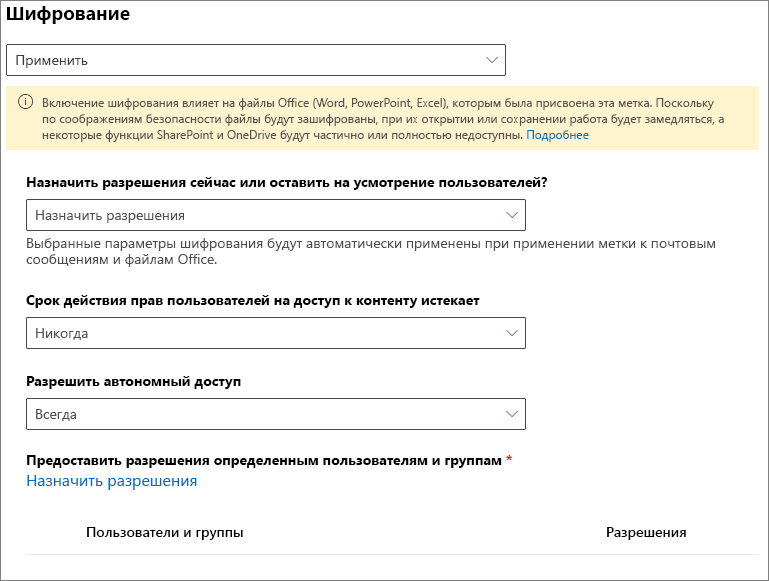
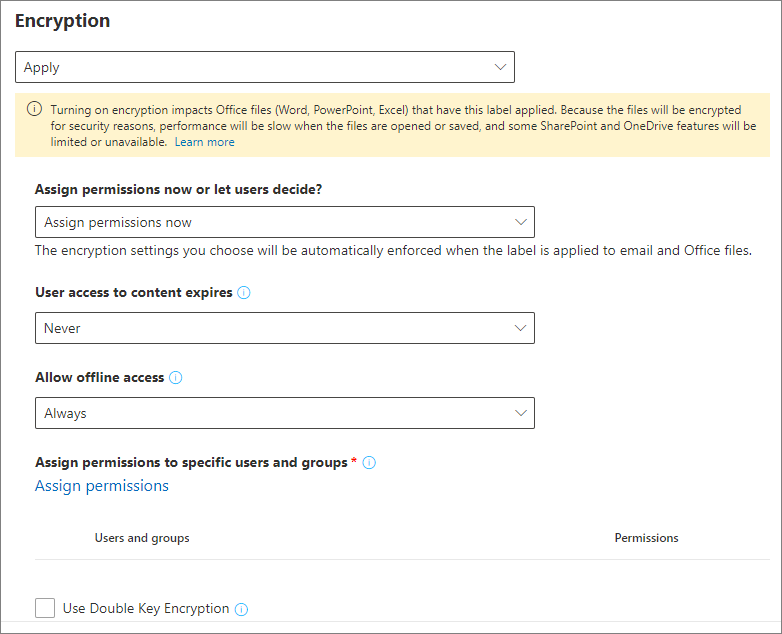
commit translated contents

diff --git a/microsoft-365/compliance/double-key-encryption.md b/microsoft-365/compliance/double-key-encryption.md
@@ -12,44 +12,40 @@ ms.reviewer: esaggese
 localization_priority: Normal
 ms.collection:
 - M365-security-compliance
-ms.openlocfilehash: 47fc4bc47831970ef7a7f2087cf6c86b6fefb8c2
-ms.sourcegitcommit: fe20f5ed07f38786c63df0f73659ca472e69e478
+ms.openlocfilehash: d9ed155576d69889e53e4e4d1ce03e4233fd08ff
+ms.sourcegitcommit: 4789b261eb029d7c965421a1260acc110e6385db
 ms.translationtype: MT
 ms.contentlocale: ru-RU
-ms.lasthandoff: 07/21/2020
-ms.locfileid: "45201777"
+ms.lasthandoff: 07/23/2020
+ms.locfileid: "45387446"
 ---
 # <a name="double-key-encryption-dke"></a>Шифрование с двойным ключом (ДКЕ)
 
-> *Применимо к: [соответствие требованиям Microsoft 365](https://www.microsoft.com/microsoft-365/business/compliance-management), [Azure Information Protection](https://azure.microsoft.com/pricing/details/information-protection)*
+> *Применимо к: шифрование с двойным ключом для Microsoft 365 общедоступная Предварительная версия, [соответствие требованиям microsoft 365](https://www.microsoft.com/microsoft-365/business/compliance-management), [Azure Information Protection](https://azure.microsoft.com/pricing/details/information-protection)*
 >
 > *Инструкции для: [клиент единой метки Azure Information Protection для Windows](https://docs.microsoft.com/azure/information-protection/faqs.md#whats-the-difference-between-the-azure-information-protection-classic-and-unified-labeling-clients)*
 >
 > *Описание службы: [соответствие требованиям Microsoft 365](https://docs.microsoft.com/office365/servicedescriptions/microsoft-365-service-descriptions/microsoft-365-tenantlevel-services-licensing-guidance/microsoft-365-security-compliance-licensing-guidance)*
 
-Эта общедоступная Предварительная версия шифрования с двойным ключом (ДКЕ) позволяет использовать клиент единой метки Azure Information Protection для защиты строго конфиденциального содержимого, сохраняя полный контроль над ключом.
-
-Для доступа к защищенному содержимому с помощью двойного шифрования необходимо использовать два ключа (совместно). Вы храните один ключ в Microsoft Azure, и вы держите другой ключ.
+С помощью двойного шифрования (ДКЕ) для доступа к защищенному содержимому используются два ключа. Вы храните один ключ в Microsoft Azure, и вы держите другой ключ. Клиент единой метки Azure Information Protection защищает строго конфиденциальный контент, пока вы сохраняете полный контроль над одним из ваших ключей.
 
 Двойное шифрование поддерживает развертывания как в облаке, так и в локальных развертываниях. Эти развертывания помогают убедиться, что зашифрованные данные остаются непрозрачными везде, где хранятся защищенные данные.
 
 Дополнительные сведения о корневых ключах облачных клиентов по умолчанию можно найти в статье [планирование и реализация ключа клиента Azure Information Protection](https://docs.microsoft.com/azure/information-protection/plan-implement-tenant-key).
 
-Двойное Ключическое шифрование аналогично полю безопасности, для которого требуется получить доступ к банковскому ключу и ключу клиента. Для расшифровки защищенного контента необходимо использовать управляемый ключ Майкрософт и ключ, удерживаемый клиентом.
-
 В следующем видеоролике показано, как работает двойное шифрование для защиты контента.
+
+> [!VIDEO https://msit.microsoftstream.com/embed/video/f466a1ff-0400-a936-221c-f1eab45dc756]
 
 Если у вашей организации есть какие – либо из следующих требований, вы можете использовать ДКЕ для защиты своего содержимого:
 
 - Вы хотите убедиться, что *только вы* можете расшифровывать защищенный контент при всех обстоятельствах.
 - Вы не хотите, чтобы у корпорации Майкрософт был доступ к защищенным данным самостоятельно.
-- Соблюдение нормативных требований для хранения ключей в пределах географической границы. Все ключи, удерживаемые клиентом для шифрования и расшифровки данных, поддерживаются в центре обработки данных.
-
-> [!VIDEO https://msit.microsoftstream.com/embed/video/f466a1ff-0400-a936-221c-f1eab45dc756]
+- Соблюдение нормативных требований для хранения ключей в пределах географической границы. Все ключи, которые вы удерживаете для шифрования и расшифровки данных, поддерживаются в центре обработки данных.
 
 ## <a name="system-and-licensing-requirements-for-dke"></a>Требования к системе и лицензированию для ДКЕ
 
-Этот общедоступный ознакомительный выпуск с двойным ключом шифрования для Microsoft 365 доступен в составе Microsoft 365 а и Office 365. Если у вас нет лицензии на Microsoft 365, вы можете зарегистрироваться для получения [пробной версии](https://aka.ms/M365E5ComplianceTrial). Для получения дополнительных сведений об этих лицензиях обратитесь к разделу [руководство по лицензированию Microsoft 365 для обеспечения безопасности & соответствия требованиям](https://docs.microsoft.com/office365/servicedescriptions/microsoft-365-service-descriptions/microsoft-365-tenantlevel-services-licensing-guidance/microsoft-365-security-compliance-licensing-guidance).
+Двойное ключевое шифрование для Microsoft 365, часть Microsoft 365 об/в и Office 365 Если у вас нет лицензии на Microsoft 365, вы можете зарегистрироваться для получения [пробной версии](https://aka.ms/M365E5ComplianceTrial). Для получения дополнительных сведений об этих лицензиях обратитесь к разделу [руководство по лицензированию Microsoft 365 для обеспечения безопасности & соответствия требованиям](https://docs.microsoft.com/office365/servicedescriptions/microsoft-365-service-descriptions/microsoft-365-tenantlevel-services-licensing-guidance/microsoft-365-security-compliance-licensing-guidance).
 
 **Предварительная сборка Office** Для использования общедоступной предварительной версии вы должны быть участником программы предварительной оценки Office. Чтобы присоединиться к программе предварительной оценки Office, перейдите на страницу [https://insider.office.com](https://insider.office.com) . Когда вы являетесь участником, подготовьте среду к развертыванию сборок для участников программы предварительной оценки Office, выбрав нужный метод развертывания для своей организации. Инструкции приведены в разделе [Начало работы по развертыванию сборок для участников программы предварительной оценки Office](https://insider.office.com/business/deploy).
 
@@ -63,15 +59,19 @@ ms.locfileid: "45201777"
 
 ## <a name="about-this-public-preview-article"></a>Об этой общедоступной статье предварительной версии
 
-Существует несколько способов выполнить некоторые действия по развертыванию двойного шифрования ключа. В этой статье приводятся подробные инструкции, позволяющие менее опытным администраторам успешно развертывать службу. Если у вас возникли общие технологии, например Git, совместно используемые методами развертывания, описанными в этой статье, вы можете использовать собственные методы.
+Существует несколько способов выполнить некоторые действия по развертыванию двойного шифрования ключа. В этой статье приводятся подробные инструкции, позволяющие менее опытным администраторам успешно развертывать службу. Если вы умеете, можете использовать собственные методы.
 
-Для общедоступной предварительной версии мы включили пошаговые инструкции по развертыванию службы шифрования двойных ключей в Azure. Этот сценарий не является чем-то вероятным действием в рабочей среде. Для общедоступной предварительной версии с помощью Azure можно быстро приступить к работе с двойным ключом шифрования сразу.
+В этой статье приведены пошаговые инструкции по развертыванию службы шифрования двойных ключей в Azure. Этот сценарий не является чем-то вероятным действием в рабочей среде. Для общедоступной предварительной версии с помощью Azure можно быстро развернуть ДКЕ. Развертывание в Azure позволяет начать использовать двойное шифрование ключа сразу.
 
-Службу можно развернуть везде, где угодно, независимо от того, находится ли она локально в вашей сети или с другим поставщиком. Необходимо опубликовать хранилище ключей с помощью методов, соответствующих этому расположению.
+Службу можно развернуть локально в сети или с помощью другого поставщика. Необходимо опубликовать хранилище ключей с помощью методов, подходящих для этого расположения.
 
 ## <a name="deploy-double-key-encryption"></a>Развертывание двойного шифрования ключей
 
-Ниже приведены общие действия по настройке шифрования с двойным ключом для Организации. В примере, приведенном в этой статье, используется Azure в качестве места назначения развертывания для службы ДКЕ. При развертывании в другом расположении необходимо указать собственные значения.
+В этой статье и видео о развертывании используется Azure в качестве места назначения развертывания для службы ДКЕ. При развертывании в другом расположении необходимо указать собственные значения.
+
+Просмотрите [видеоролик о развертывании двойных ключей](https://msit.microsoftstream.com/video/cfdda3ff-0400-a521-1579-f1eacc37fc7e) , чтобы просмотреть пошаговые инструкции по концепциям, представленным в этой статье. Для завершения видеоролика потребуется около 18 минут.
+
+Ниже приведены общие действия по настройке шифрования с двойным ключом для Организации.
 
 1. [Установка необходимого программного обеспечения](#install-software-prerequisites)
 1. [Клонировать репозиторий GitHub шифрования с двойным ключом](#clone-the-dke-github-repository)
@@ -146,13 +146,13 @@ ms.locfileid: "45201777"
 
 5. В появившемся диалоговом окне **Выбор папки** найдите и выберите расположение для хранения репозитория. В командной строки нажмите кнопку **Открыть**.
 
-    Репозиторий открывается в Visual Studio Code и отображается в левом нижнем углу текущей ветви Git. Текущая ветвь должна быть **основной**.
+    Репозиторий открывается в Visual Studio Code и отображается в левом нижнем углу текущей ветви Git. Ветвь должна быть **основной**.
 
     Пример:
 
     :::image type="content" source="../media/dke-vscode-master.png" alt-text="Ветвь образца кода Visual Studio":::
 
-6. Выберите образец Word **,** а затем в списке ветвей выберите пункт **public_preview** . 
+6. Выберите образец Word **,** а затем в списке ветвей выберите пункт **public_preview** .
 
    > [!IMPORTANT]
    > Выбор ветви public_preview позволяет убедиться, что у вас есть правильные файлы для построения проекта. Если не выбрать подходящую ветвь, произойдет ошибка развертывания.
@@ -178,41 +178,79 @@ ms.locfileid: "45201777"
 
 - **Авторизация ролей**. Позволяет Организации авторизовать доступ к ключам на основе групп Active Directory и требовать, чтобы веб-служба могла запрашивать LDAP.
 
-Чтобы настроить параметры доступа к ключам для ДКЕ, выполните указанные ниже действия.
+**Настройка параметров доступа к ключам для ДКЕ с помощью авторизации электронной почты**
 
-1. В **appsettings.js** "файл" определите только один из следующих параметров:
+1. Откройте **appsettings.js** файла и выберите `AuthorizedEmailAddress` параметр.
 
-   - Для проверки подлинности электронной почты выберите параметр **аусоризедемаиладдрессес** . Добавьте адрес электронной почты, который нужно авторизовать. Разделяйте адреса электронной почты двойными кавычками и запятыми. Пример: **"' аусоризедемаиладдрессес '": ["email1@company.com", "email2@company.com", email3@company.com]**
+2. Добавьте адрес электронной почты или адреса, которые вы хотите авторизовать. Разделяйте адреса электронной почты двойными кавычками и запятыми. Пример:
 
-   :::image type="content" source="../media/dke-email-accesssetting.png" alt-text="appsettings.jsв файле с методом авторизации электронной почты":::
+   ```json
+   "AuthorizedEmailAddress": ["email1@company.com", "email2@company.com ", "email3@company.com"]
+   ```
 
-   - В разделе Авторизация роли выберите параметр **аусоризедролес** . Определите имена групп ActiveDirectory, которые вы хотите авторизовать. Пример: **"аусоризедролес": ["Group1", "group2", "group3"]**
+3. Нахождение `LDAPPath` параметра и удаление текста `If role authorization is used then this is the LDAP path` между двойными кавычками. Оставьте двойные кавычки на месте. По завершении этот параметр должен выглядеть так, как показано ниже.
+
+   ```json
+   "LDAPPath": ""
+   ```
+
+4. Нахождение `AuthorizedRoles` параметра и удаление всей строки.
+
+На этом рисунке показано, как правильно отформатировать **appsettings.jsв** файле для авторизации электронной почты.
+
+   :::image type="content" source="../media/dke-email-accesssetting.png" alt-text="appsettings.jsдля файла с методом авторизации электронной почты":::
+
+**Настройка параметров доступа к ключам для ДКЕ с помощью авторизации ролей**
+
+1. Откройте **appsettings.js** файла и выберите `AuthorizedRoles` параметр.
+
+2. Добавьте имена групп Active Directory, которые вы хотите авторизовать. Разделяйте имена групп двойными кавычками и запятыми. Пример:
+
+   ```json
+   "AuthorizedRoles": ["group1", "group2", "group3"]
+   ```
+
+3. Нахождение `LDAPPath` параметра и добавление домена Active Directory. Пример:
+
+   ```json
+   "LDAPPath": "contoso.com"
+   ```
+
+4. Нахождение `AuthorizedEmailAddress` параметра и удаление всей строки.
+
+На этом рисунке показано, как правильно отформатировать **appsettings.jsв** файле для авторизации роли.
 
    :::image type="content" source="../media/dke-role-accesssetting.png" alt-text="appsettings.jsдля файла с методом авторизации роли":::
 
-2. Удалите параметр, не относящийся к выбранному способу проверки подлинности.
-
 #### <a name="tenant-and-key-settings"></a>Параметры клиента и ключа
 
-Параметры клиента и ключа ДКЕ размещаются в **appsettings.js** файла и **Startup.CS** .
+Параметры клиента и ключа ДКЕ находятся в **appsettings.js** в файле.
 
-В **appsettings.js** файла измените следующие значения:
+**Настройка параметров клиента и ключа для ДКЕ**
 
-- **Валидиссуерс**. Замените `<tenantid>` идентификатором GUID клиента.
-- **Жвтаудиенце**. Замените `<yourhostname>` на имя узла компьютера, на котором будет запускаться служба дке.
+1. Откройте **appsettings.jsв** файле.
+
+2. Укажите `ValidIssuers` параметр и замените `<tenantid>` идентификатором клиента. Вы можете определить идентификатор клиента, перейдя на портал Azure и просмотрев [Свойства клиента](https://aad.portal.azure.com/#blade/Microsoft_AAD_IAM/ActiveDirectoryMenuBlade/Properties). Пример:
+
+   ```json
+   "ValidIssuers": [
+     "https://sts.windows.net/9c99431e-b513-44be-a7d9-e7b500002d4b/"
+   ]
+   ```
+
+Откройте файл `JwtAudience` . Замените `<yourhostname>` на имя узла компьютера, на котором будет запускаться служба дке. Пример:
+
+
 
   > [!IMPORTANT]
-  > Значение для Жвтаудиенце должно *точно*совпадать с именем узла. В процессе отладки можно использовать **localhost: 5000** . Однако после завершения отладки обязательно обновите это значение с помощью имени узла сервера.
+  > Значение `JwtAudience` должно *точно*совпадать с именем узла. При отладке вы можете использовать **localhost: 5001** . Однако после завершения отладки обязательно обновите это значение с помощью имени узла сервера.
 
-- **Лдаппас**. Задайте значение следующим образом:
+- `TestKeys:Name`. Введите имя для ключа. Пример: `TestKey1`
+- `TestKeys:Id`. Создайте GUID и введите его в качестве `TestKeys:ID` значения. Например, `DCE1CC21-FF9B-4424-8FF4-9914BD19A1BE`. Для случайного создания GUID можно использовать сайт, например, [генератор GUID в Интернете](https://guidgenerator.com/) .
 
-  - Если вы используете авторизацию ролей, введите домен LDAP.
-  - Если вы используете авторизацию электронной почты, оставьте это значение пустым.
+На этом рисунке показан правильный формат параметров клиента и ключей в **appsettings.json**. `LDAPPath`настроена для авторизации роли.
 
-   Дополнительные сведения см. в разделе [параметры доступа к ключам](#key-access-settings).
-
-- **Тесткэйс: имя**. Введите имя для ключа. Пример: **TestKey1**
-- **Тесткэйс: ID**. Создайте GUID и введите его в качестве значения **тесткэйс: ID** . Например, **DCE1CC21-FF9B-4424-8FF4-9914BD19A1BE**. Для случайного создания GUID можно использовать сайт, например, [генератор GUID в Интернете](https://guidgenerator.com/) .
+:::image type="content" source="../media/dke-appsettingsjson-tenantkeysettings.png" alt-text="Показывает правильные параметры клиента и ключа для ДКЕ в appsettings.jsв файле.":::
 
 ### <a name="generate-test-keys"></a>Создание тестовых ключей
 
@@ -242,16 +280,18 @@ ms.locfileid: "45201777"
    openssl rsa -in key.pem -pubout > pubkeyonly.pem
    ```
 
-1. В текстовом редакторе откройте **пубкэйонли. pem**. Скопируйте весь контент из файла **пубкэйонли. pem** , за исключением первой и последней строки, в раздел **публикпем** **appsettings.js** файла.
+1. В текстовом редакторе откройте **пубкэйонли. pem**. Скопируйте весь контент из файла **пубкэйонли. pem** , за исключением первой и последней строки, в `PublicPem` раздел **appsettings.js** файла.
 
-1. В текстовом редакторе откройте **привкэйнопасс. pem**. Скопируйте весь контент из файла **привкэйнопасс. pem** , за исключением первой и последней строки, в раздел **приватепем** **appsettings.js** файла.
+1. В текстовом редакторе откройте **привкэйнопасс. pem**. Скопируйте весь контент из файла **привкэйнопасс. pem** , за исключением первой и последней строки, в `PrivatePem` раздел **appsettings.js** файла.
 
-1. Удалите все пробелы и символы новой строки в разделах **публикпем** и **приватепем** .
+1. Удалите все пробелы и символы новой строки в `PublicPem` разделах и и `PrivatePem` .
 
     > [!IMPORTANT]
     > При копировании этого контента не удаляйте какие бы то ни было данные PEM.
 
-1. Откройте файл **Startup.CS** и перейдите к следующим строкам:
+1. В Visual Studio Code перейдите к файлу **Startup.CS** . Этот файл находится в репозитории Даублекэйенкриптионсервице, который вы клонированы локально в Даублекэйенкриптионсервице\срк\кустомер-Кэй-сторе\.
+
+2. Откройте следующие строки:
 
    ```c#
         #if USE_TEST_KEYS
@@ -261,13 +301,13 @@ ms.locfileid: "45201777"
         #endif
    ```
 
-1. Замените эти строки следующим текстом:
+3. Замените эти строки следующим текстом:
 
    ```csharp
    services.AddSingleton<ippw.IKeyStore, ippw.TestKeyStore>();
    ```
 
-   Конечный результат должен выглядеть примерно так, как показано на следующем рисунке.
+   Конечный результат должен выглядеть примерно так, как показано ниже.
 
    :::image type="content" source="../media/dke-startupcs-usetestkeys.png" alt-text="файл startup.cs для общедоступной предварительной версии":::
 
@@ -305,11 +345,13 @@ ms.locfileid: "45201777"
 
    При наличии красных ошибок проверьте вывод консоли. Убедитесь, что все предыдущие действия выполнены правильно, и в них имеются правильные версии сборки.
 
-1. **Запуск** \> **Начните отладку** , чтобы выполнить отладку процесса. Если вам будет предложено выбрать среду, выберите пункт **.NET Core**.
+2. Чтобы отладить процесс, нажмите кнопку **выполнить** \> **Запуск отладки** . Если вам будет предложено выбрать среду, выберите пункт **.NET Core**.
 
-Основной отладчик .NET обычно запускается в **https://localhost:5001** . Чтобы просмотреть тестовый ключ, перейдите к разделу **https://localhost:5001** и добавьте косую черту (/) и имя ключа.
+Основной отладчик .NET, как правило, запускается в ' ' https://localhost:5001 `. To view your test key, go to ` https://localhost:5001 ' и добавляет косую черту (/) и имя ключа. Пример:
 
-Например:**https://localhost:5001/TestKey1**
+```https
+https://localhost:5001/TestKey1
+```
 
 Ключ должен отображаться в формате JSON.
 
@@ -317,9 +359,9 @@ ms.locfileid: "45201777"
 
 ### <a name="publish-the-key-store"></a>Публикация хранилища ключей
 
-Ниже описано, как создать экземпляр службы приложений Azure для размещения вашего развертывания ДКЕ, а также как опубликовать созданные ключи в Azure.
+Чтобы опубликовать хранилище ключей, вы создадите экземпляр службы приложений Azure для размещения вашего развертывания ДКЕ. Теперь вы публикуете созданные ключи в Azure.
 
-Чтобы создать экземпляр веб-приложения Azure для размещения развертывания ДКЕ, выполните следующие действия:
+**Создание экземпляра веб-приложения Azure для размещения развертывания ДКЕ**
 
 1. В браузере Войдите на [портал Microsoft Azure](https://ms.portal.azure.com)и перейдите к разделу Добавление **служб приложений**  >  **Add**.
 
@@ -434,9 +476,9 @@ key_store_tester.ps1https://mycustomerkeystore.com/mykey
 
 6. Выберите **элемент добавить платформу**.
  
-7. В меню **Настройка платформ** выберите пункт **веб**.
+7. В меню **Настройка платформы** выберите пункт **веб**.
  
-8. В разделе **URI перенаправления** введите универсальный код ресурса (URI) службы шифрования двойных ключей. Введите URL-адрес службы приложений, включая имя узла и домен.
+8. В разделе **URI перенаправления**введите универсальный код ресурса (URI) для службы шифрования двойных ключей. Введите URL-адрес службы приложений, включая имя узла и домен.
 
     Пример: https://mycustomerkeystoretest.com
 
@@ -444,7 +486,7 @@ key_store_tester.ps1https://mycustomerkeystore.com/mykey
     - Если вы тестируете локально с помощью Visual Studio, используйте **https://localhost:5001** .
     - Во всех случаях схема должна иметь значение **HTTPS**.
 
-    Убедитесь, что имя узла совпадает с именем узла службы приложений. Возможно, вы изменили его на localhost, чтобы устранить неполадки с построением. В appsettings.json это имя узла, которое определено в качестве значения параметра Жвтаудиенце.
+    Убедитесь, что имя узла совпадает с именем узла службы приложений. Возможно, вы изменили его на `localhost` "Устранение неполадок сборки". В **appsettings.json**это имя узла, для которого задано значение `JwtAudience` .
 
 6. В разделе **неявное предоставление разрешений**установите флажок **маркеры ID** .
 
@@ -480,9 +522,7 @@ key_store_tester.ps1https://mycustomerkeystore.com/mykey
 
 ## <a name="create-labels-using-dke"></a>Создание меток с помощью ДКЕ
 
-После регистрации своего хранилища ключей настройте метки конфиденциальности в центре соответствия требованиям Microsoft 365 и примените к ним шифрование с двойным ключом.
-
-В пользовательском интерфейсе создания меток выберите параметр **использовать шифрование двойных ключей** и введите URL-адрес конечной точки для ключа.
+В центре соответствия требованиям Microsoft 365 создайте новую метку чувствительности и примените шифрование, как в противном случае. Выберите **использовать шифрование с двойным ключом** и введите URL-адрес конечной точки для своего ключа.
 
 Пример:
 

diff --git a/microsoft-365/compliance/insider-risk-management-configure.md b/microsoft-365/compliance/insider-risk-management-configure.md
@@ -12,12 +12,12 @@ author: robmazz
 manager: laurawi
 audience: itpro
 ms.collection: m365-security-compliance
-ms.openlocfilehash: c53bfa58e36b2723d5227c38805482dcb629d864
-ms.sourcegitcommit: a08103bc120bdec7cfeaf67c1be4e221241e69ad
+ms.openlocfilehash: b968de12a2dee9d6b820558af05f99c7be29763c
+ms.sourcegitcommit: b3316b947059d3a2e31acbf0ab57d2e000b662ff
 ms.translationtype: MT
 ms.contentlocale: ru-RU
-ms.lasthandoff: 07/21/2020
-ms.locfileid: "45199693"
+ms.lasthandoff: 07/22/2020
+ms.locfileid: "45255344"
 ---
 # <a name="get-started-with-insider-risk-management"></a>Начало работы с управлением внутренними рисками
 
@@ -54,7 +54,7 @@ ms.locfileid: "45199693"
 | **Предварительное управление рисками** | Используйте эту группу ролей, чтобы управлять управлением рисками для оценки Организации в одной группе. Добавляя все учетные записи пользователей для назначенных администраторов, аналитик и изучений, вы можете настроить разрешения на управление рисками для участников в одной группе. Эта группа ролей содержит все роли разрешений по управлению рисками для оценки. Эта конфигурация является самым простым способом начать работу с управлением рисками для оценки и подходит для организаций, которым не требуются отдельные разрешения, определенные для отдельных групп пользователей.|
 | **Администратор управления рисками для участников** | Используйте эту группу ролей, чтобы первоначально настроить управление рисками для предварительной оценки и позднее, чтобы отделить администраторов о рисках для предварительной оценки в определенной группе.  Пользователи в этой группе ролей могут создавать, читать, обновлять и удалять политики управления рисками для оценки, глобальные параметры и назначения групп ролей. |
 | **Аналитики управления рисками для участников** | Используйте эту группу для назначения разрешений пользователям, которые будут использоваться в качестве аналитиков вариантов риска для оценки. Пользователи в этой группе ролей могут получать доступ ко всем шаблонам оповещений, обращений и уведомлений об управлении рисками для оценки. Они не могут получать доступ к обозревателю контента для оценки риска. |
-| **Исследования по управлению рисками для участников** | Используйте эту группу для назначения разрешений пользователям, которые будут использоваться в качестве расследований данных о рисках для оценки. Пользователи в этой группе ролей могут получать доступ ко всем оповещениям управления рисками для оценки, обращениям, шаблонам уведомлений и проводнику содержимого для всех случаев. |
+| **Исследования по управлению рисками для участников** | Используйте эту группу для назначения разрешений пользователям, которые будут использоваться в качестве расследований данных о рисках для оценки. Пользователи в этой группе ролей могут получать доступ ко всем оповещениям об управлении рисками, обращениям, заданным шаблонам и обозревателю контента. |
 
 ### <a name="add-users-to-an-insider-risk-management-role-group"></a>Добавление пользователей в группу ролей "Управление рисками"
 
@@ -183,7 +183,7 @@ ms.locfileid: "45199693"
 11. Нажмите кнопку **Далее** , чтобы продолжить.
 12. На странице " **Проверка** " Проверьте параметры, выбранные для политики. Нажмите кнопку **изменить** , чтобы изменить любое значение политики, или кнопку **послать** , чтобы создать и активировать политику.
 
-## <a name="next-steps"></a>Дальнейшие действия
+## <a name="next-steps"></a>Следующие шаги
 
 После выполнения этих действий для создания первой политики управления рисками для предварительной оценки вы начнете получать оповещения от индикаторов активности через 24 часа. Настройте дополнительные политики по мере необходимости, используя инструкции, приведенные в шаге 4 данной статьи, или действия, описанные в статье [Создание новой политики риска для оценки](insider-risk-management-policies.md#create-a-new-policy).
 

diff --git a/microsoft-365/compliance/prepare-tls-1.2-in-office-365.md b/microsoft-365/compliance/prepare-tls-1.2-in-office-365.md
@@ -1,28 +1,26 @@
 ---
 title: Подготовка к TLS 1.2 в Office 365 и Office 365 GCC
 description: Как подготовиться к использованию TLS 1.2 для всех сочетаний клиент-сервер и браузер-сервер в Office 365 после отключения поддержки TLS 1.0 и 1.1.
-author: simonxjx
-manager: dcscontentpm
+author: workshay
+manager: laurawi
 localization_priority: Normal
 search.appverid:
 - MET150
 audience: ITPro
 ms.service: O365-seccomp
 ms.topic: article
-ms.author: v-six
+ms.author: shmehta
+ms.reviewer: krowley
 appliesto:
 - Office 365 Business
-ms.openlocfilehash: d3086c85adf76a322775ce53697504b77e672f9a
-ms.sourcegitcommit: 51a9f34796535309b8ca8b52da92da0a3621327b
+ms.openlocfilehash: b76854442fd74dddddcef778ae03a9d76ceb3cc6
+ms.sourcegitcommit: a53af7a228bb1f58cb8128a69a19da49f9e28700
 ms.translationtype: MT
 ms.contentlocale: ru-RU
-ms.lasthandoff: 07/02/2020
-ms.locfileid: "45024844"
+ms.lasthandoff: 07/23/2020
+ms.locfileid: "45372502"
 ---
 # <a name="preparing-for-tls-12-in-office-365-and-office-365-gcc"></a>Подготовка к TLS 1.2 в Office 365 и Office 365 GCC
-
-> [!IMPORTANT]
-> Пандемия в мире в разгаре, и мы в Microsoft понимаем, как это влияет на наших клиентов и партнеров. Чтобы снизить нагрузку на наших коммерческих клиентов, мы временно прекратили отключение TLS 1.0 и 1.1. Обновление будет отправлено в новые сроки после того, как текущий кризис стабилизируется. (Эта статья пересматривается с учетом изменений.)
 
 ## <a name="summary"></a>Аннотация
 
@@ -34,7 +32,7 @@ ms.locfileid: "45024844"
 
 ## <a name="more-information"></a>Дополнительная информация
 
-Мы уже начали отключение TLS 1.0 и 1.1 с января 2020 года. Любые клиенты, устройства или службы, которые подключаются к Office 365 через TLS 1.0 или 1.1 в наших экземплярах DoD или GCC High, не поддерживаются. Для наших коммерческих клиентов Office 365 мы остановим любую амортизацию TLS 1.0 и 1.1 до тех пор, пока ситуация с COVID-19 не стабилизируется.
+Мы уже начали отключение TLS 1.0 и 1.1 с января 2020 года. Любые клиенты, устройства или службы, которые подключаются к Office 365 через TLS 1.0 или 1.1 в наших экземплярах DoD или GCC High, не поддерживаются. Для наших коммерческих клиентов Office 365 устаревшие протоколы TLS 1,0 и 1,1 будут начинаться с 15 октября 2020 г.
 
 Необходимо убедиться в том, что все сочетания клиент-сервер и браузер-сервер используют протокол TLS 1.2 (или более поздней версии) для поддержки подключения к службам Office 365. Возможно, придется обновить определенные сочетания клиент-сервер и браузер-сервер.
 
